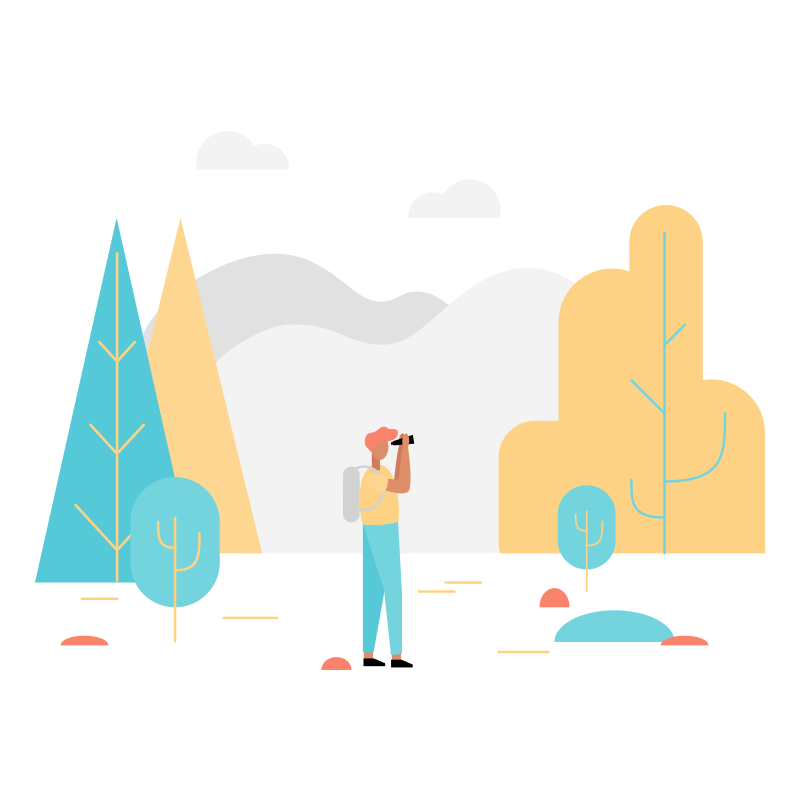
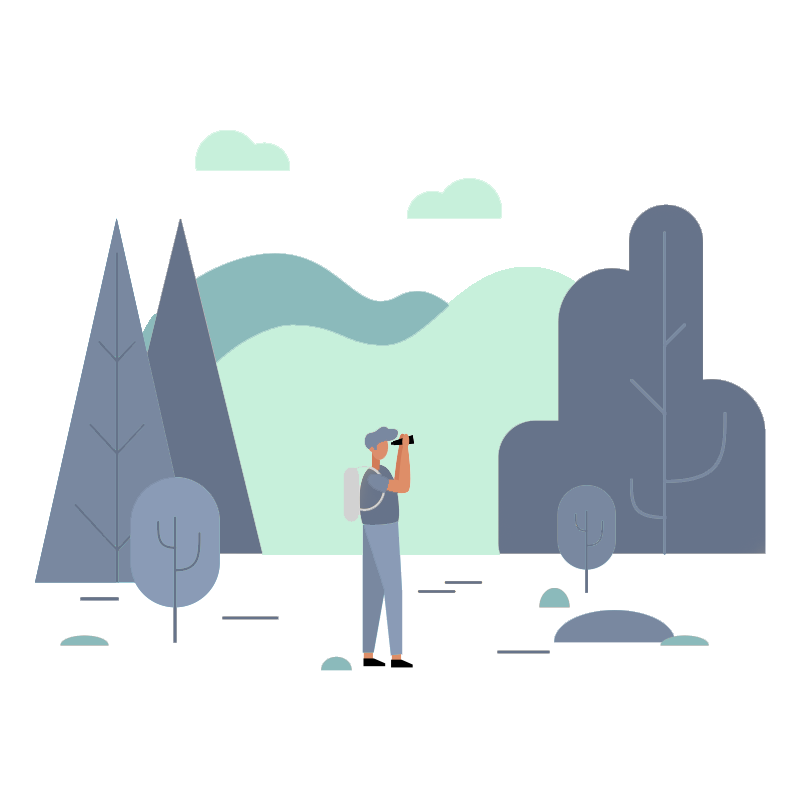
Remove old trip default images

diff --git a/lib/view/trip_list_widget.dart b/lib/view/trip_list_widget.dart
@@ -31,7 +31,7 @@ class _TripListState extends State<TripList> {
               children: [
                 Image.asset(
                     trip.picturePath?.isEmpty ??
-                        "assets/images/trip-default-palette-2.png",
+                        "assets/images/trip-default.png",
                     width: 600,
                     height: 200,
                     fit: BoxFit.cover),
